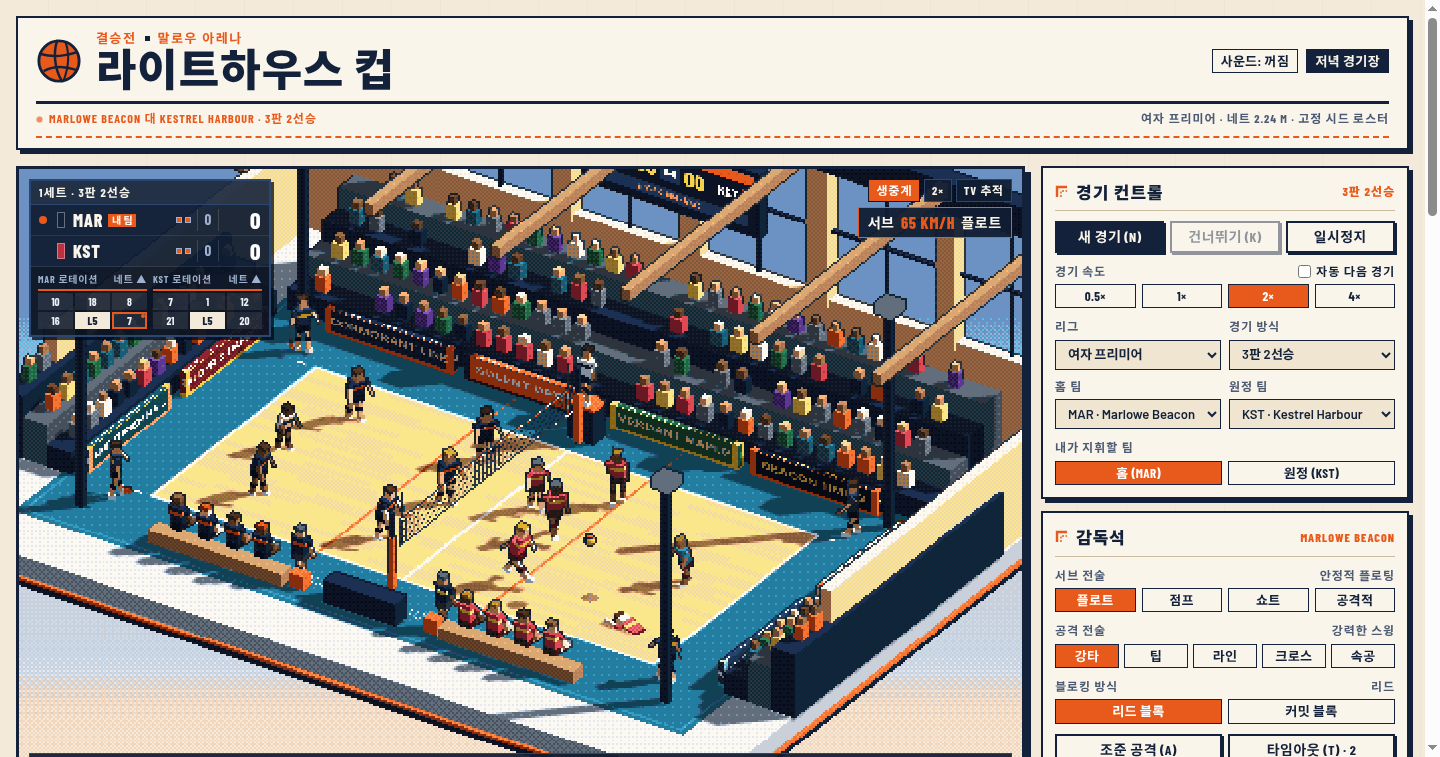
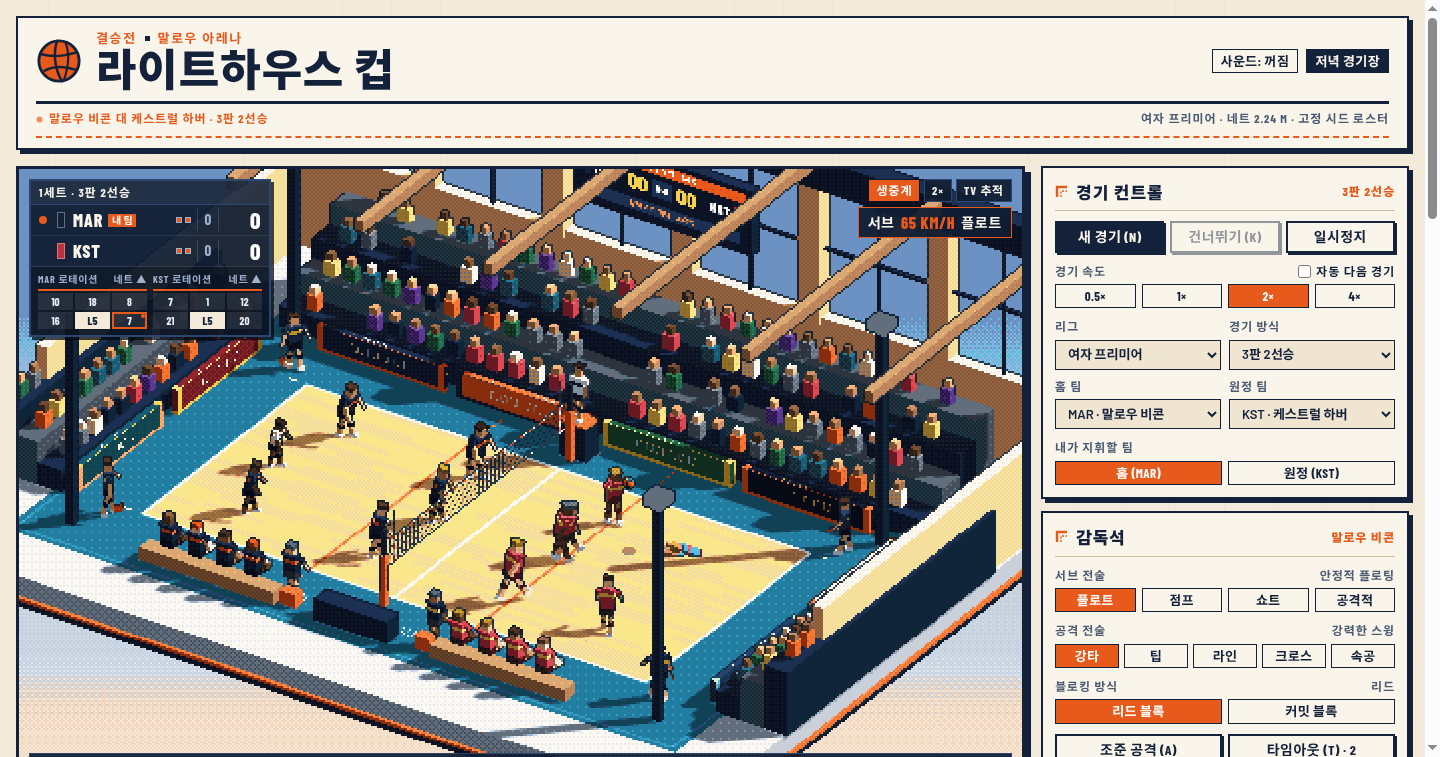
팀·선수·감독·스폰서 이름 한글화

diff --git a/index.html b/index.html
@@ -1400,7 +1400,7 @@
 
           <!-- Timeout Banner -->
           <div id="timeoutBanner" class="hud-banner">
-            <span id="timeoutBannerText">타임아웃 · MARLOWE</span>
+            <span id="timeoutBannerText">타임아웃 · 말로우 비콘</span>
             <span id="timeoutCountdown" style="color:var(--accent)">5.0s</span>
           </div>
 
@@ -1423,7 +1423,7 @@
           <div id="videoCheckOverlay" class="video-check-overlay">
             <div class="vc-card">
               <div class="vc-header">
-                <span>MARLOWE 비디오 판독</span>
+                <span>말로우 비콘 비디오 판독</span>
                 <span id="vcSubLabel" style="font-size:13px;color:var(--accent)">라인 판정</span>
               </div>
               <canvas id="vcCanvas" width="390" height="175"></canvas>
@@ -1513,7 +1513,7 @@
               </svg>
               감독석
             </span>
-            <span id="lblCoachTeam" style="font-size:12px;color:var(--accent)">MARLOWE</span>
+            <span id="lblCoachTeam" style="font-size:12px;color:var(--accent)">말로우 비콘</span>
           </h2>
 
           <div>
@@ -1846,14 +1846,14 @@
 
     // --- Invented Sponsors (seeded hall boards) ---
     const SPONSORS = [
-      { name: 'CORMORANT LINE', bg: '#13223A', fg: '#F3EAD9', accent: '#E85A1B' },
-      { name: 'SOLENT OPTICS', bg: '#E85A1B', fg: '#FCF9F2', accent: '#13223A' },
-      { name: 'VERDANT MAPLE', bg: '#194730', fg: '#F3EAD9', accent: '#F2BD4B' },
-      { name: 'BEACON TIMING', bg: '#0B1324', fg: '#F5D24E', accent: '#E85A1B' },
-      { name: 'ALDER & HARBOUR', bg: '#691923', fg: '#F3EAD9', accent: '#F2BD4B' },
-      { name: 'NORTHPIER RAIL', bg: '#104154', fg: '#FCF9F2', accent: '#FF9452' },
-      { name: 'KESTREL SPORT', bg: '#F3EAD9', fg: '#13223A', accent: '#E85A1B' },
-      { name: 'MARLOWE TRUST', bg: '#1B3052', fg: '#FCF9F2', accent: '#5EBCE0' }
+      { name: '코모란트 라인', bg: '#13223A', fg: '#F3EAD9', accent: '#E85A1B' },
+      { name: '솔런트 옵틱스', bg: '#E85A1B', fg: '#FCF9F2', accent: '#13223A' },
+      { name: '버던트 메이플', bg: '#194730', fg: '#F3EAD9', accent: '#F2BD4B' },
+      { name: '비콘 타이밍', bg: '#0B1324', fg: '#F5D24E', accent: '#E85A1B' },
+      { name: '올더 앤 하버', bg: '#691923', fg: '#F3EAD9', accent: '#F2BD4B' },
+      { name: '노스피어 레일', bg: '#104154', fg: '#FCF9F2', accent: '#FF9452' },
+      { name: '케스트럴 스포츠', bg: '#F3EAD9', fg: '#13223A', accent: '#E85A1B' },
+      { name: '말로우 트러스트', bg: '#1B3052', fg: '#FCF9F2', accent: '#5EBCE0' }
     ];
 
     // --- Court Surface Definitions ---
@@ -1898,23 +1898,23 @@
     const HAIR_TONES = ['#211915', '#3B2418', '#6B4B2E', '#8E6F2D', '#B33E12', '#464F5C'];
 
     const WOMEN_FIRST = [
-      'Clara','Nadia','Tessa','Maren','Sora','Hanna','Freya','Elena','Mina','Anya',
-      'Leila','Petra','Signe','Klara','Ines','Lina','Yuki','Camille','Nora','Daria',
-      'Bryn','Marta','Talia','Iris','Sienna','Zofia','Amara','Elin','Rina','Juno',
-      'Vera','Kaia','Alma','Naomi','Rhea','Maja','Sylvie','Linnea','Greta','Celine'
+      '클라라','나디아','테사','마렌','소라','한나','프레이야','엘레나','미나','아냐',
+      '레일라','페트라','시그네','클라르','이네스','리나','유키','카미유','노라','다리아',
+      '브린','마르타','탈리아','아이리스','시에나','조피아','아마라','엘린','리이나','주노',
+      '베라','카이아','알마','나오미','레아','마야','실비','린네아','그레타','셀린'
     ];
     const MEN_FIRST = [
-      'Tomas','Henrik','Mateo','Darius','Kenji','Lukas','Callum','Nikolai','Soren','Rafael',
-      'Bram','Jovan','Oskar','Tariq','Milo','Kasper','Andrei','Ronan','Haruto','Felix',
-      'Ewan','Viktor','Kieran','Marco','Stefan','Ilya','Gideon','Emil','Dante','Arvid',
-      'Benoit','Jonas','Caleb','Nils','Piotr','Koji','Theo','Declan','Roman','Alec'
+      '토마스','헨리크','마테오','다리우스','겐지','루카스','캘럼','니콜라이','소렌','라파엘',
+      '브람','요반','오스카르','타리크','마일로','카스퍼','안드레이','로난','하루토','펠릭스',
+      '이웬','빅토르','키어런','마르코','슈테판','일리야','기디언','에밀','단테','아르비드',
+      '브누아','요나스','케일럽','닐스','피오트르','고지','테오','데클런','로만','알렉'
     ];
     const SURNAMES = [
-      'Halvorsen','Kowalski','Delgado','Bramwell','Sato','Lindqvist','Okafor','Moravec','Cavalieri','Vandenberg',
-      'Hargreaves','Takahashi','Solberg','Petrovic','Alvarez','Mercier','Nystrom','Keller','Bauer','Redfern',
-      'Varga','Sorensen','Mendoza','Whitaker','Fujimoto','Novak','Costello','Richter','Kerrigan','Dumont',
-      'Bergstrom','Lozano','Chalmers','Ibrahim','Holm','Ortega','Stanton','Bianchi','Kangas','Thornton',
-      'Marchetti','Vermeer','Serrano','Ainsworth','Watanabe','Zaleski','Corbin','Svensson','Morel','Langley'
+      '할보르센','코발스키','델가도','브램웰','사토','린드크비스트','오카포르','모라베츠','카발리에리','판덴베르흐',
+      '하그리브스','다카하시','솔베리','페트로비치','알바레스','메르시에','뉘스트룀','켈러','바우어','레드펀',
+      '바르가','쇠렌센','멘도사','휘태커','후지모토','노바크','코스텔로','리히터','케리건','뒤몽',
+      '베리스트룀','로사노','챔버스','이브라힘','홀름','오르테가','스탠턴','비안키','캉가스','손턴',
+      '마르케티','페르메이르','세라노','에인즈워스','와타나베','잘레스키','코르빈','스벤손','모렐','랭글리'
     ];
 
     const LEAGUE_SPECS = [
@@ -1926,11 +1926,11 @@
         spikeScale: 0.94,
         firstNames: WOMEN_FIRST,
         teams: [
-          { id: 'mar', name: 'Marlowe Beacon',   code: 'MAR', jersey: '#13223A', trim: '#E85A1B', shorts: '#0B1324', libero: '#F3EAD9', coach: 'Helena Shaw',    tier: 84 },
-          { id: 'kst', name: 'Kestrel Harbour',  code: 'KST', jersey: '#BD313E', trim: '#F5D24E', shorts: '#421017', libero: '#227DA0', coach: 'Miriam Lind',    tier: 83 },
-          { id: 'ald', name: 'Alderbridge VC',   code: 'ALD', jersey: '#1F7A6F', trim: '#F3EAD9', shorts: '#102C1E', libero: '#E85A1B', coach: 'Corinne Vale',   tier: 82 },
-          { id: 'npr', name: 'Northpier Royals', code: 'NPR', jersey: '#5C3894', trim: '#F2BD4B', shorts: '#24143D', libero: '#75C794', coach: 'Sabine Novak',   tier: 83 },
-          { id: 'sol', name: 'Solent Athletics', code: 'SOL', jersey: '#D84D16', trim: '#FCF9F2', shorts: '#13223A', libero: '#359DC2', coach: 'Ingrid Falk',    tier: 81 }
+          { id: 'mar', name: '말로우 비콘',   code: 'MAR', jersey: '#13223A', trim: '#E85A1B', shorts: '#0B1324', libero: '#F3EAD9', coach: '헬레나 쇼',    tier: 84 },
+          { id: 'kst', name: '케스트럴 하버',  code: 'KST', jersey: '#BD313E', trim: '#F5D24E', shorts: '#421017', libero: '#227DA0', coach: '미리엄 린드',    tier: 83 },
+          { id: 'ald', name: '올더브리지 VC',   code: 'ALD', jersey: '#1F7A6F', trim: '#F3EAD9', shorts: '#102C1E', libero: '#E85A1B', coach: '코린 베일',   tier: 82 },
+          { id: 'npr', name: '노스피어 로열스', code: 'NPR', jersey: '#5C3894', trim: '#F2BD4B', shorts: '#24143D', libero: '#75C794', coach: '자비네 노바크',   tier: 83 },
+          { id: 'sol', name: '솔런트 애슬레틱스', code: 'SOL', jersey: '#D84D16', trim: '#FCF9F2', shorts: '#13223A', libero: '#359DC2', coach: '잉그리드 팔크',    tier: 81 }
         ]
       },
       {
@@ -1941,11 +1941,11 @@
         spikeScale: 1.06,
         firstNames: MEN_FIRST,
         teams: [
-          { id: 'mwb', name: 'Marlowe Mariners', code: 'MWB', jersey: '#185D78', trim: '#FF9452', shorts: '#0B1324', libero: '#F5D24E', coach: 'Graham Fletcher', tier: 85 },
-          { id: 'brk', name: 'Breakwater Six',   code: 'BRK', jersey: '#942430', trim: '#F3EAD9', shorts: '#1B1F26', libero: '#49AA74', coach: 'Pavel Moravec',   tier: 84 },
-          { id: 'fnh', name: 'Fernhill United',  code: 'FNH', jersey: '#236644', trim: '#F2BD4B', shorts: '#102C1E', libero: '#E85A1B', coach: 'Martin Holm',     tier: 83 },
-          { id: 'cbt', name: 'Cobalt Docks',     code: 'CBT', jersey: '#1B3052', trim: '#5EBCE0', shorts: '#0B1324', libero: '#DE4953', coach: 'Tomasz Zaleski',  tier: 84 },
-          { id: 'och', name: 'Ochre Foundry',    code: 'OCH', jersey: '#BA8D1D', trim: '#13223A', shorts: '#211915', libero: '#185D78', coach: 'Arthur Redfern',  tier: 82 }
+          { id: 'mwb', name: '말로우 매리너스', code: 'MWB', jersey: '#185D78', trim: '#FF9452', shorts: '#0B1324', libero: '#F5D24E', coach: '그레이엄 플레처', tier: 85 },
+          { id: 'brk', name: '브레이크워터 식스',   code: 'BRK', jersey: '#942430', trim: '#F3EAD9', shorts: '#1B1F26', libero: '#49AA74', coach: '파벨 모라베츠',   tier: 84 },
+          { id: 'fnh', name: '펀힐 유나이티드',  code: 'FNH', jersey: '#236644', trim: '#F2BD4B', shorts: '#102C1E', libero: '#E85A1B', coach: '마르틴 홀름',     tier: 83 },
+          { id: 'cbt', name: '코발트 독스',     code: 'CBT', jersey: '#1B3052', trim: '#5EBCE0', shorts: '#0B1324', libero: '#DE4953', coach: '토마시 잘레스키',  tier: 84 },
+          { id: 'och', name: '오커 파운드리',    code: 'OCH', jersey: '#BA8D1D', trim: '#13223A', shorts: '#211915', libero: '#185D78', coach: '아서 레드펀',  tier: 82 }
         ]
       }
     ];
@@ -2004,7 +2004,7 @@
               firstName: first,
               lastName: last,
               name: full,
-              shortName: `${first[0]}. ${last}`,
+              shortName: last,
               pos: tpl.pos,
               isLibero: tpl.isLibero,
               starter: tpl.starter,

diff --git a/README.md b/README.md
@@ -26,8 +26,8 @@
 - 비디오 판독 화면, 경기장 3D 전광판과 코트 바닥 문구
 - 세트별 스코어보드, 경기 통계, 활약 선수, 로스터 표
 - 한글이 깨지지 않도록 Noto Sans KR 글꼴을 추가
-- 팀 이름, 선수 이름, 감독 이름, 스폰서 보드는 가상의 고유명사이므로 원문 그대로 유지했습니다.
-- 배구 포지션 약어(S, OH, MB, OPP, L)와 팀 코드(MAR, KST 등)도 그대로 유지했습니다.
+- 팀 이름, 선수 이름, 감독 이름, 스폰서 보드도 한글 표기로 바꿨습니다(가상의 이름이며, 고정 시드 로스터의 구성은 그대로입니다).
+- 배구 포지션 약어(S, OH, MB, OPP, L)와 팀 코드(MAR, KST 등)는 원문 그대로 유지했습니다.
 
 ## 스크린샷
 
